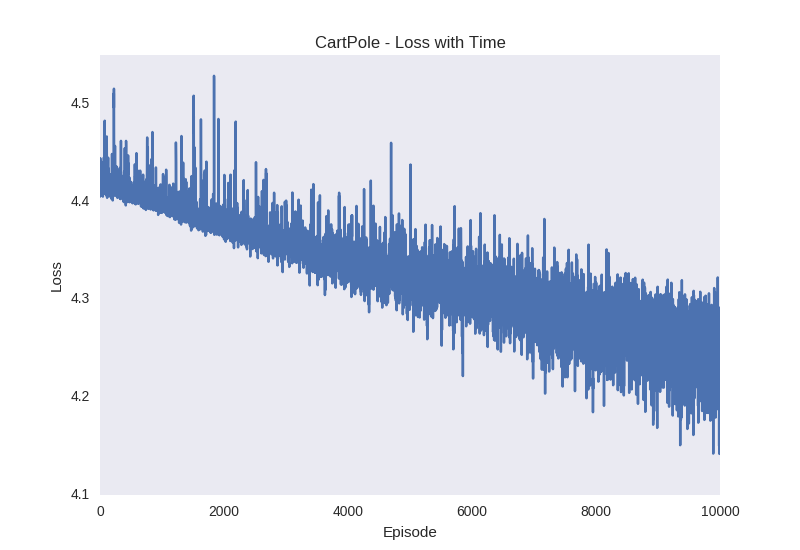
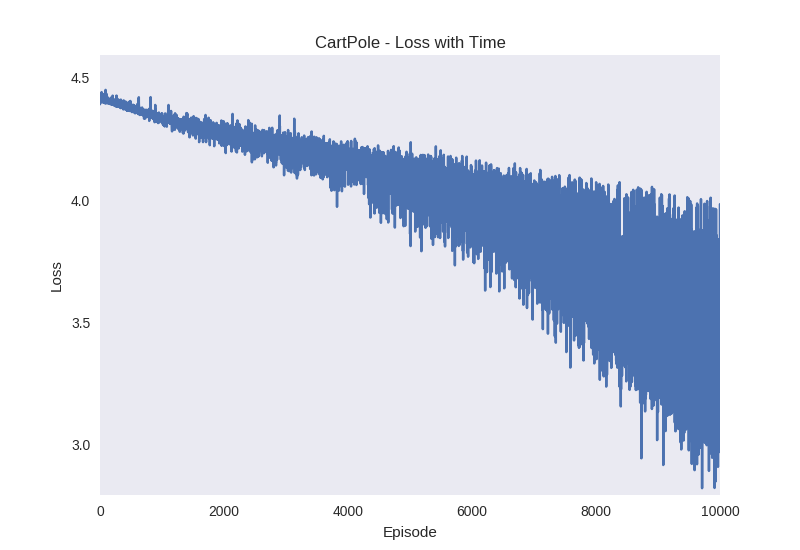
Update CartPole parameters, results.

diff --git a/experiments/train_atari.py b/experiments/train_atari.py
@@ -23,7 +23,8 @@ def main(env_name='KungFuMasterNoFrameskip-v0',
          vmax=10,
          n=51,
          gamma=0.99,
-         final_eps=0.02,
+         final_eps=0.1,
+         final_eps_update=1000000,
          learning_rate=0.00025,
          momentum=0.95):
     env = gym.make(env_name)
@@ -45,7 +46,7 @@ def main(env_name='KungFuMasterNoFrameskip-v0',
                              lr=learning_rate, mm=momentum, use_tensorboard=True)
     logger = agent.writer
 
-    epsilon_schedule = LinearSchedule(1.0, final_eps, max_timesteps)
+    epsilon_schedule = LinearSchedule(1.0, final_eps, final_eps_update)
     replay_buffer = ReplayBuffer(buffer_size)
 
     try:
@@ -77,6 +78,7 @@ def main(env_name='KungFuMasterNoFrameskip-v0',
                 # Minimize error in projected Bellman update on a batch sampled from replay buffer
                 experience = replay_buffer.sample(batch_size)
                 agent.train(*experience)  # experience is (s, a, r, s_, t) tuple
+                logger.write_value('loss', agent.trainer.previous_minibatch_loss_average, t)
 
             if t > train_after and (t % target_update_freq) == 0:
                 agent.update_target()
@@ -85,7 +87,6 @@ def main(env_name='KungFuMasterNoFrameskip-v0',
                 logger.write_value('rewards', rewards, episode)
                 logger.write_value('steps', steps, episode)
                 logger.write_value('epsilon', epsilon_schedule.value(t), episode)
-                agent.trainer.summarize_training_progress()
                 logger.flush()
 
                 rewards = 0
